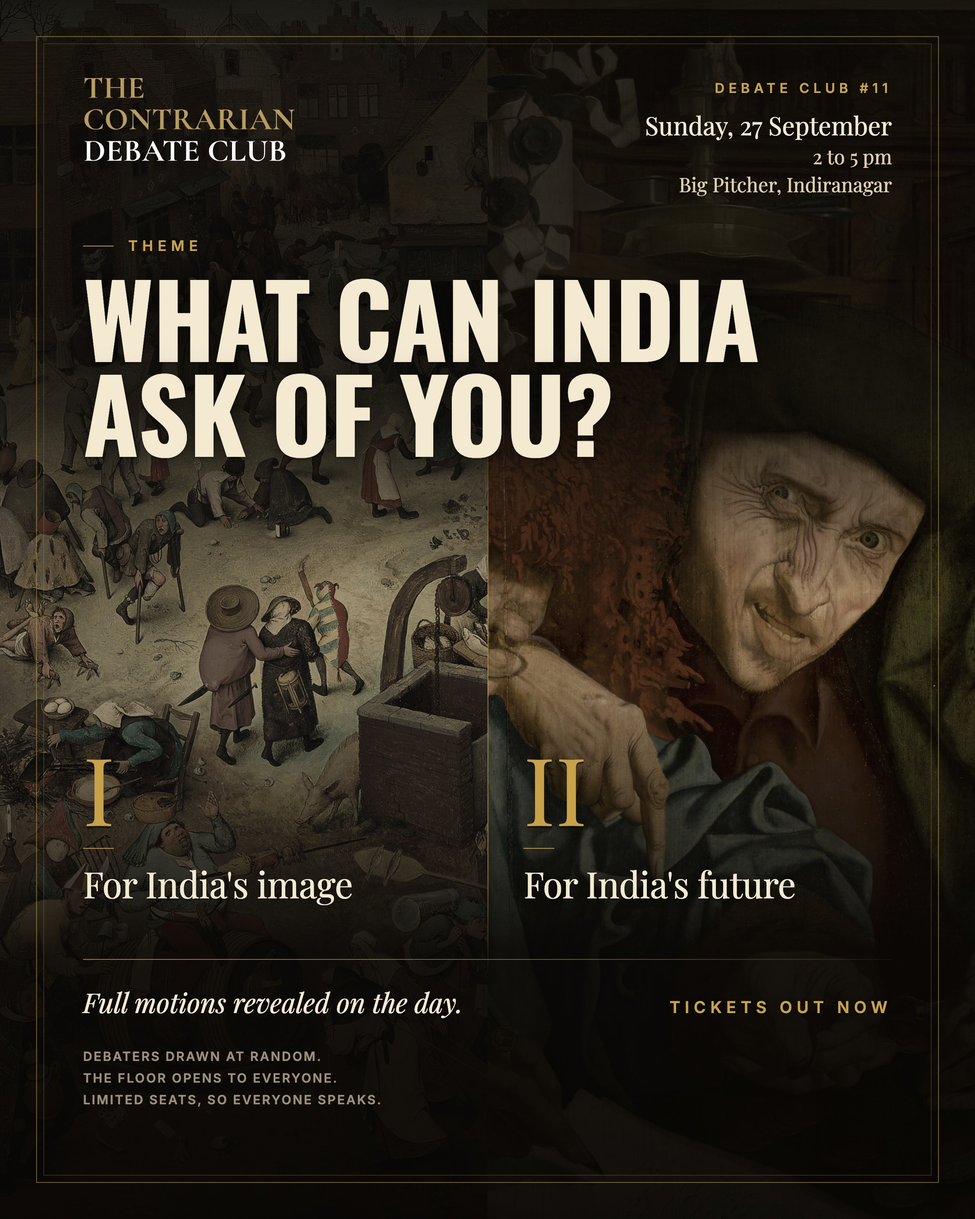
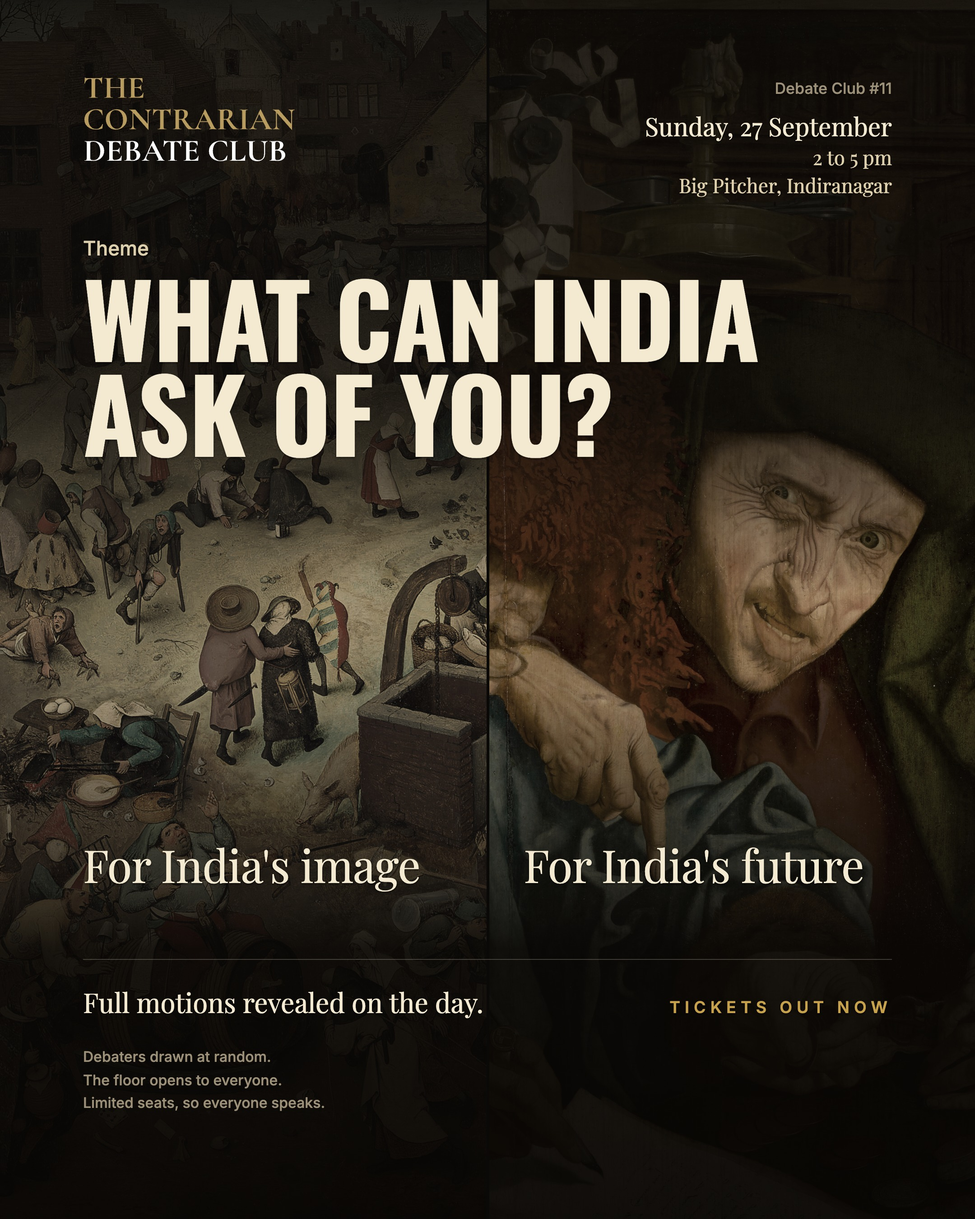
fix(posters): strip the generated-looking ornament from the Debate #11 poster
The gold double frame over the art, the ticks before labels, the gold
roman numerals, the fading rules, the gold seam and the soft glow behind
the type all read as template. They are gone: the paintings run to the
edge, the seam is the dark gap between two prints, the halves are plain
labels, the small print is sentence case, and gold is kept for the call
to action alone.

diff --git a/posters/works/2026-09-27-debate-11-what-you-owe/slides.tsx b/posters/works/2026-09-27-debate-11-what-you-owe/slides.tsx
@@ -35,15 +35,19 @@ import "./slides.css";
 // works out festivals and money from that has earned it; the motions still
 // arrive in the room.
 //
-// A PRINTED BILL, NOT A SLIDE. A gold double rule is drawn over the art, the
-// way a framed print or a theatre bill carries its border. The edition and the
-// details sit in the top right corner opposite the lockup, where a playbill
-// puts them. The two halves are numbered in large engraved numerals.
+// NOTHING DECORATIVE. The edition and the details sit in the top right corner
+// opposite the lockup, where a playbill puts them, and that is the only
+// flourish. An earlier cut drew a gold double frame over the art, put a tick
+// before every label, numbered the halves in gold roman numerals, faded every
+// rule and set a glow behind the type. Each of those made it look generated,
+// so none of them is here: the paintings run to the edge, the halves are
+// plain labels, the rule is a plain hairline and the seam is the gap between
+// two prints.
 //
 // TYPE DOES THREE JOBS. Oswald condensed caps shouts once, for the theme.
 // Playfair does all the talking: the two halves, the details, the notice that
-// the motions are held back. Inter appears small and gold only where it is pure
-// utility: the edition, the theme label, the format, the call to action.
+// the motions are held back. Inter is the small print, in sentence case. Gold
+// is used once, for the call to action, and only it is set in tracked caps.
 //
 // ---------------------------------------------------------------------------
 // The art, public domain via Wikimedia Commons:
@@ -80,10 +84,9 @@ export interface Crop {
   scale: number;
 }
 
-/** One half of the page: its numeral, what the demand would be for, and the
- *  painting it is argued on. */
+/** One half of the page: what the demand would be for, and the painting it
+ *  is argued on. */
 export interface Half {
-  numeral: string;
   label: string;
   plate: Plate;
   crop: Crop;
@@ -119,8 +122,7 @@ interface Metrics {
   themeLabelSize: number;
   themeTop: number;
   themeSize: number;
-  numeralTop: number;
-  numeralSize: number;
+  labelTop: number;
   labelSize: number;
   ruleTop: number;
   noticeSize: number;
@@ -139,9 +141,8 @@ const PORTRAIT: Metrics = {
   themeLabelSize: 16,
   themeTop: 298,
   themeSize: 112,
-  numeralTop: 820,
-  numeralSize: 104,
-  labelSize: 40,
+  labelTop: 930,
+  labelSize: 50,
   ruleTop: 1062,
   noticeSize: 30,
   ctaSize: 18,
@@ -159,9 +160,8 @@ const STORY: Metrics = {
   themeLabelSize: 18,
   themeTop: 382,
   themeSize: 126,
-  numeralTop: 1250,
-  numeralSize: 120,
-  labelSize: 46,
+  labelTop: 1392,
+  labelSize: 56,
   ruleTop: 1530,
   noticeSize: 34,
   ctaSize: 20,
@@ -222,8 +222,8 @@ function scrim(m: Metrics, format: Format) {
     rgba(11, 9, 7, 0.76) ${pct(themeEnd - 60)},
     rgba(11, 9, 7, 0.3) ${pct(themeEnd + 70)},
     rgba(11, 9, 7, 0.04) ${pct(themeEnd + 150)},
-    rgba(11, 9, 7, 0.08) ${pct(m.numeralTop - 60)},
-    rgba(11, 9, 7, 0.62) ${pct(m.numeralTop + m.numeralSize + 40)},
+    rgba(11, 9, 7, 0.08) ${pct(m.labelTop - 160)},
+    rgba(11, 9, 7, 0.66) ${pct(m.labelTop + m.labelSize + 10)},
     rgba(9, 7, 5, 0.9) ${pct(m.ruleTop - 10)},
     rgba(8, 6, 4, 0.95) 100%)`;
 }
@@ -246,7 +246,15 @@ const SERIF: CSSProperties = {
   margin: 0,
 };
 
-/** One half's numeral and label. The outer margin is the page margin and the
+/** The small print: sentence case, muted, no tracking. */
+const SMALL: CSSProperties = {
+  fontFamily: "var(--cc-font-ui)",
+  fontWeight: 500,
+  color: "var(--cc-muted)",
+  margin: 0,
+};
+
+/** One half's label. The outer margin is the page margin and the
  *  inner one is half of it, so the two blocks sit symmetrically about the
  *  seam and read as a pair rather than two posters that happen to touch. */
 function HalfLabel({
@@ -266,22 +274,14 @@ function HalfLabel({
       className="wo-on-art"
       style={{
         position: "absolute",
-        top: m.numeralTop,
+        top: m.labelTop,
         left: left ? MARGIN : format.width / 2 + 40,
         right: left ? format.width / 2 + 40 : MARGIN,
       }}
     >
       <p
-        className="wo-numeral"
-        style={{ ...SERIF, fontSize: m.numeralSize, lineHeight: 1 }}
-      >
-        {half.numeral}
-      </p>
-      <div className="wo-tick" style={{ marginTop: Math.round(m.numeralSize * 0.14) }} />
-      <p
         style={{
           ...SERIF,
-          marginTop: Math.round(m.labelSize * 0.42),
           fontSize: m.labelSize,
           lineHeight: 1.12,
           letterSpacing: "-0.01em",
@@ -307,7 +307,7 @@ export function Poster({ copy, format }: { copy: Copy; format: Format }) {
       {/* the ground: two paintings, floor to ceiling, meeting at the seam */}
       {copy.halves.map((half, i) => (
         <div
-          key={half.numeral}
+          key={half.label}
           style={{
             position: "absolute",
             top: 0,
@@ -322,7 +322,6 @@ export function Poster({ copy, format }: { copy: Copy; format: Format }) {
       ))}
       <div className="wo-scrim" style={{ background: scrim(m, format) }} />
       <div className="wo-seam" style={{ left: pw }} />
-      <div className="wo-frame" />
 
       {/* the club, and opposite it the edition and the details */}
       <div style={{ position: "absolute", left: MARGIN, top: m.lockupTop }}>
@@ -332,9 +331,7 @@ export function Poster({ copy, format }: { copy: Copy; format: Format }) {
         className="wo-on-art"
         style={{ position: "absolute", right: MARGIN, top: m.lockupTop + 4, textAlign: "right" }}
       >
-        <div className="kicker" style={{ fontSize: m.editionSize, letterSpacing: "0.3em" }}>
-          {copy.edition}
-        </div>
+        <p style={{ ...SMALL, fontSize: m.editionSize + 2 }}>{copy.edition}</p>
         {copy.details.map((line, i) => (
           <p
             key={line}
@@ -352,22 +349,19 @@ export function Poster({ copy, format }: { copy: Copy; format: Format }) {
       </div>
 
       {/* the theme */}
-      <div
-        className="kicker wo-on-art"
+      <p
+        className="wo-on-art"
         style={{
+          ...SMALL,
           position: "absolute",
           left: MARGIN,
           top: m.themeLabelTop,
-          display: "flex",
-          alignItems: "center",
-          gap: 16,
-          fontSize: m.themeLabelSize,
-          letterSpacing: "0.32em",
+          fontSize: m.themeLabelSize + 6,
+          color: "var(--cc-parchment)",
         }}
       >
-        <span className="wo-tick" />
         {copy.themeLabel}
-      </div>
+      </p>
       <div
         className="wo-on-art"
         style={{ position: "absolute", left: MARGIN, top: m.themeTop, width: W - MARGIN * 2 }}
@@ -400,7 +394,6 @@ export function Poster({ copy, format }: { copy: Copy; format: Format }) {
         <p
           style={{
             ...SERIF,
-            fontStyle: "italic",
             fontSize: m.noticeSize,
             lineHeight: 1.2,
             color: "var(--cc-ivory)",
@@ -414,13 +407,9 @@ export function Poster({ copy, format }: { copy: Copy; format: Format }) {
       </div>
       <div style={{ position: "absolute", left: MARGIN, top: m.linesTop }}>
         {copy.lines.map((line) => (
-          <div
-            key={line}
-            className="label"
-            style={{ fontSize: m.linesSize, letterSpacing: "0.12em", lineHeight: 1.7 }}
-          >
+          <p key={line} style={{ ...SMALL, fontSize: m.linesSize + 2, lineHeight: 1.6 }}>
             {line}
-          </div>
+          </p>
         ))}
       </div>
     </div>

diff --git a/posters/works/2026-09-27-debate-11-what-you-owe/slides.css b/posters/works/2026-09-27-debate-11-what-you-owe/slides.css
@@ -33,80 +33,26 @@
   inset: 0;
 }
 
-/* Type that sits directly on a painting gets a soft dark halo, so a bright
-   passage of the picture behind a letter never takes the letter away. */
+/* A tight shadow only, so a bright passage of the picture behind a letter
+   never takes the letter away. A wide soft glow read as a digital effect. */
 .wo-on-art {
-  text-shadow:
-    0 1px 2px rgba(0, 0, 0, 0.5),
-    0 2px 24px rgba(0, 0, 0, 0.55);
+  text-shadow: 0 1px 2px rgba(0, 0, 0, 0.6);
 }
 
-/* --- The printed bill ----------------------------------------------------- */
-
-/* The seam. The two halves are one argument split down the middle, and this
-   is the split. Gold rather than black, so it reads as a rule the club drew
-   and not as a gap between two images. Strongest where the paintings are the
-   content, gone behind the theme and the details, so it never cuts a letter. */
+/* The seam is the gap between two prints laid side by side: a plain dark
+   line, not a gold rule. */
 .wo-seam {
   position: absolute;
   top: 0;
   bottom: 0;
-  width: 1px;
-  background: linear-gradient(
-    180deg,
-    rgba(200, 162, 74, 0) 0%,
-    rgba(200, 162, 74, 0) 34%,
-    rgba(200, 162, 74, 0.6) 44%,
-    rgba(200, 162, 74, 0.6) 72%,
-    rgba(200, 162, 74, 0) 80%
-  );
+  width: 3px;
+  margin-left: -1px;
+  background: #0b0907;
 }
 
-/* The frame, drawn over the paintings rather than under them. The canvas
-   carries the same double rule, but a full bleed picture covers it; over the
-   art it reads as the border of a framed print or a theatre bill, which is
-   most of what makes this page a poster rather than a photograph. */
-.wo-frame {
-  position: absolute;
-  inset: 40px;
-  border: 1px solid rgba(200, 162, 74, 0.5);
-  pointer-events: none;
-}
-.wo-frame::before {
-  content: "";
-  position: absolute;
-  inset: 7px;
-  border: 1px solid rgba(200, 162, 74, 0.2);
-}
-
-/* The rule the notice sits under, fading at both ends like the canvas's own
-   hairlines. */
+/* The rule the notice sits under: a plain hairline. */
 .wo-rule {
   position: absolute;
   height: 1px;
-  background: linear-gradient(
-    90deg,
-    rgba(200, 162, 74, 0.7),
-    rgba(200, 162, 74, 0.45) 60%,
-    rgba(200, 162, 74, 0.08)
-  );
-}
-
-/* The numerals. Gold leaf, with a hard dark edge under each stroke so they
-   read as cut into the picture rather than floated over it. */
-.wo-numeral {
-  color: var(--cc-gold);
-  text-shadow:
-    0 2px 0 rgba(0, 0, 0, 0.55),
-    0 4px 30px rgba(0, 0, 0, 0.6);
-}
-
-/* The mark that opens a label. Small enough to be a tick rather than a rule:
-   it says a new item starts here, which is all a numbered half needs. */
-.wo-tick {
-  display: block;
-  width: 34px;
-  height: 1px;
-  background: var(--cc-gold);
-  opacity: 0.85;
+  background: rgba(244, 234, 210, 0.22);
 }

diff --git a/posters/works/2026-09-27-debate-11-what-you-owe/spec.tsx b/posters/works/2026-09-27-debate-11-what-you-owe/spec.tsx
@@ -53,7 +53,6 @@ const work: WorkSpec = {
             theme: ["What can India", "ask of you?"],
             halves: [
               {
-                numeral: "I",
                 label: "For India's image",
                 plate: carnival,
                 // a full height slice through the carnival half of the square,
@@ -62,7 +61,6 @@ const work: WorkSpec = {
                 crop: { x: 0.42, y: 0.5, scale: 1 },
               },
               {
-                numeral: "II",
                 label: "For India's future",
                 plate: collectors,
                 // the clerk who looks back at you, the finger on the ledger,
